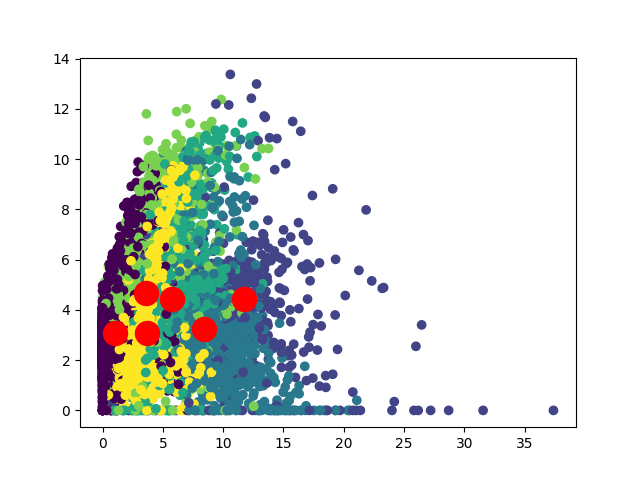
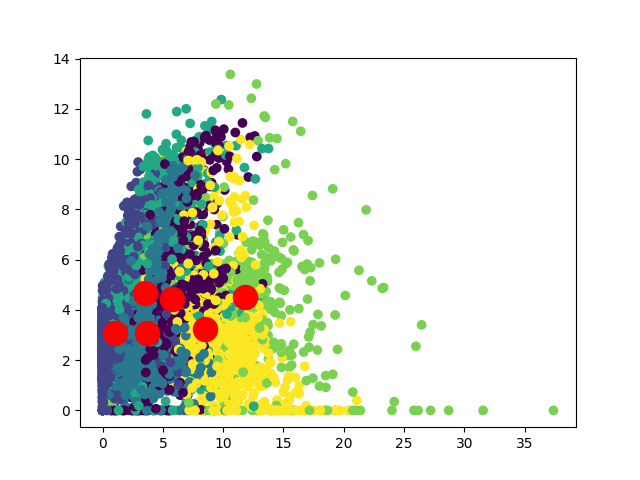
cluster

diff --git a/src/kmeans_clustering.py b/src/kmeans_clustering.py
@@ -7,7 +7,7 @@ from sklearn.metrics import silhouette_score
 from sklearn.metrics import davies_bouldin_score
 
 class KMeansClustering:
-    def __init__(self, dataset: pd.DataFrame, n_clusters: int = 6):
+    def __init__(self, dataset: pd.DataFrame, n_clusters: int = 3):
         self.dataset = dataset
         self.n_clusters = n_clusters
         self.model = KMeans(n_clusters=self.n_clusters)
